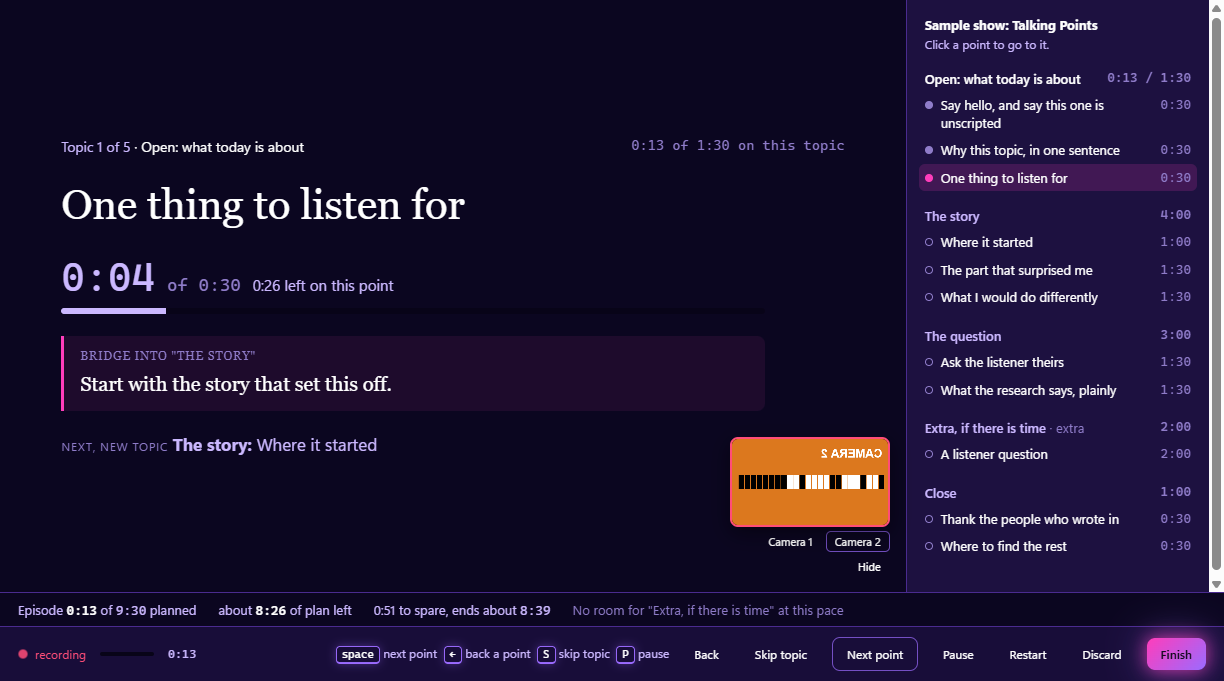
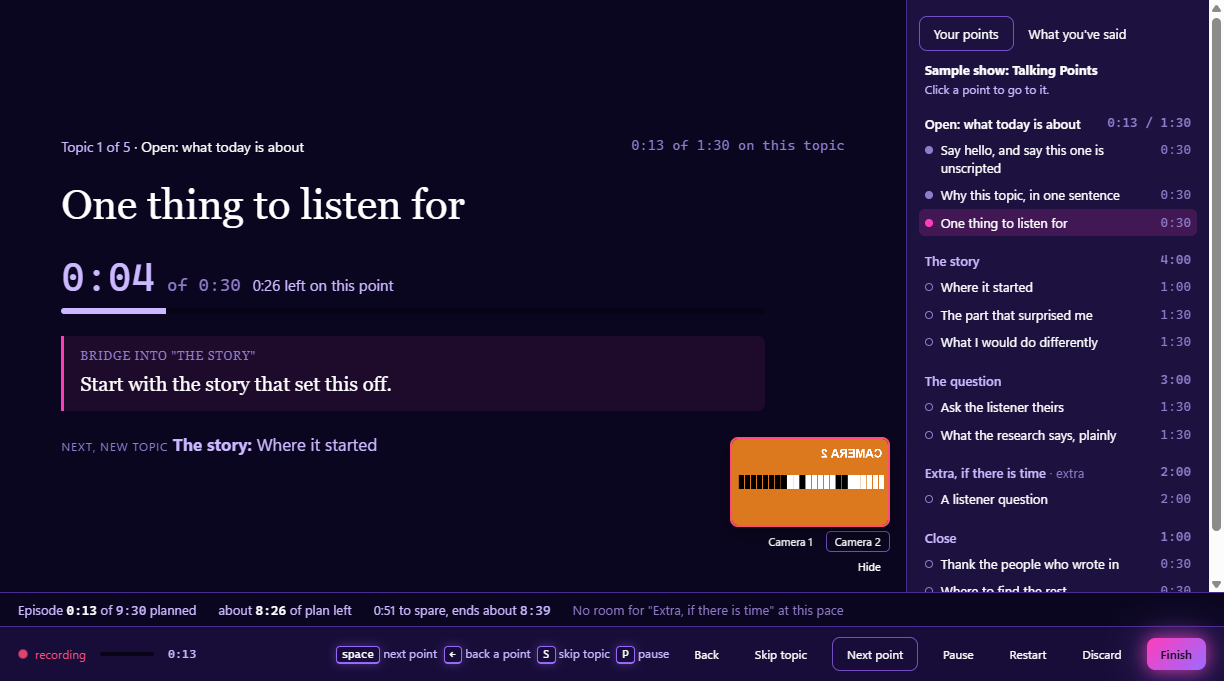
0.25.7: what you've said, your last good word, and the take transcript
Three new pictures and what they do; the talking-points pictures recaptured
with the new switch above the list and the plainer Paused panel.

Changed region(s): [[0.7451, 0.0308, 0.9935, 0.8943], [0.9314, 0.7709, 1.0, 0.8326], [0.683, 0.6784, 0.7141, 0.7093]]

diff --git a/README.md b/README.md
@@ -54,6 +54,20 @@ In the studio, one button cuts the cameras to the take: the camera you picked on
 
 ![The Cameras panel in the studio, with the camera in the studio's picture](shots/14-studio-cameras.png)
 
+## What you've said (0.25.7)
+
+Talking from points, your words are written down beside your points as you say them, a moment behind you, under the topic they belong to. One switch above the list goes between your points and what you have said. These pictures use a stand-in speech service with made-up words.
+
+![What you've said, beside the point you are on](shots/15-what-youve-said.png)
+
+Paused, the panel shows your last words. Click the last one you are happy with, and Record goes again from just after it: the cut lands in the pause after that word, it plays you the last few seconds, and you come back in on the same beat.
+
+![Paused, with the last good word picked](shots/16-last-good-word.png)
+
+After the take, the whole thing is written down properly, with punctuation and without the ums. In the studio, Transcript beside any take shows it by topic, ready to copy or save as a Word document.
+
+![A take's transcript in the studio, with Copy all and Save as Word](shots/17-take-transcript.png)
+
 ## The studio
 
 ![The studio timeline, a clip to a layer](shots/02-studio.png)
@@ -125,7 +139,7 @@ That idea turned into Takesmith.
 
 ## Current status
 
-Takesmith is under active development and testing. The released build is **0.25.6**, which added two cameras switched with 1 and 2, after 0.25.5 added talking from points. Music Lab is **0.26.0**, built and in testing, and not released yet.
+Takesmith is under active development and testing. The released build is **0.25.7**, which writes down what you say as you talk from points and lets you go again from your last good word, after 0.25.6 added two cameras and 0.25.5 added talking from points. Music Lab is **0.26.0**, built and in testing, and not released yet.
 
 The core project is kept in a private repository while the software continues to be developed. This repository is the public home for information, screenshots, development updates, and future release information.
 
